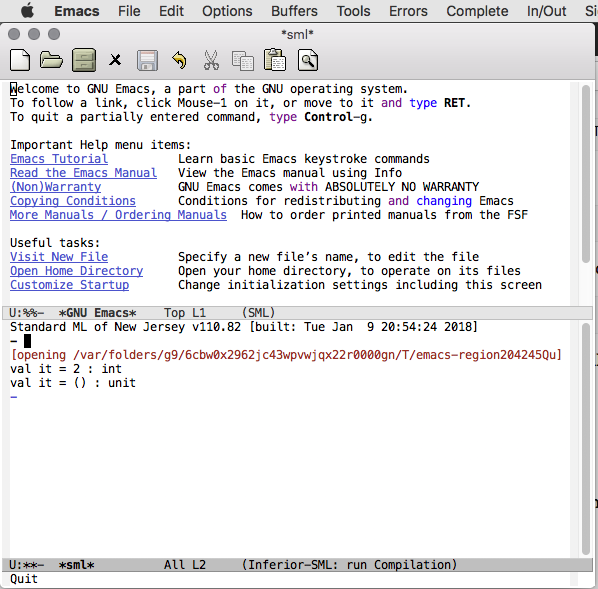
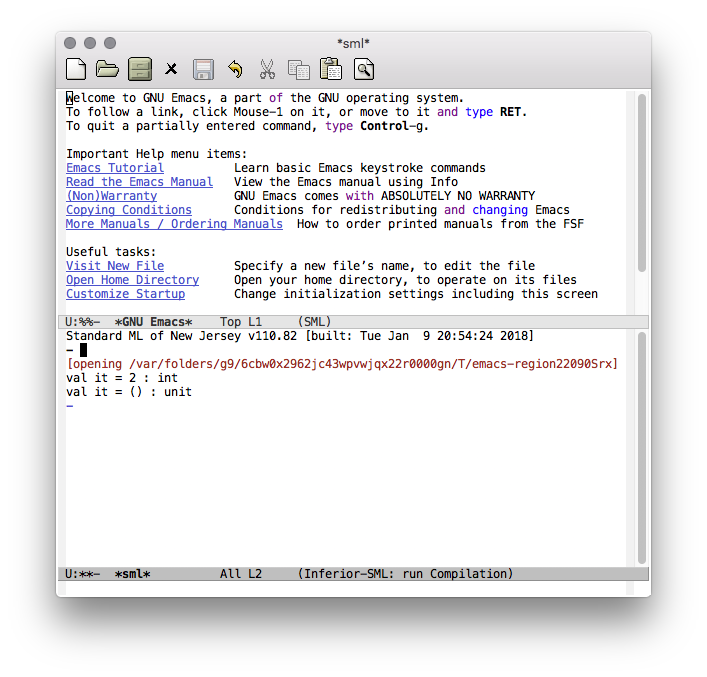
[FIX] image centering

diff --git a/_site/2018/03/03/installing-standard-ml-on-os-x/index.html b/_site/2018/03/03/installing-standard-ml-on-os-x/index.html
@@ -157,7 +157,7 @@ Reload your user profile:</p>
 But classic editing tool for SML is GNU Emacs, hereinafter referred to as
 Emacs - so we’ll setup SML editing environment in this universal kitchen sink.</p>
 
-<p><img src="http://ergoemacs.org/emacs/i/emacs_kitchen_sink_icon_1987.png" alt="emacs-kitchen-sink" class="img-responsive" /></p>
+<p><img src="http://ergoemacs.org/emacs/i/emacs_kitchen_sink_icon_1987.png" alt="emacs-kitchen-sink" class="img-center" /></p>
 
 <p>Let’s get it:</p>
 <div class="highlighter-rouge"><div class="highlight"><pre class="highlight"><code>$ brew install emacs --with-cocoa
@@ -239,7 +239,7 @@ It should have <em>(Inferior-SML: run Compilation)</em> in it’s mode line.</p>
 <p>this command will send the code from your buffer to the compiler.
 The result should look like this:</p>
 
-<p><img src="/assets/img/2018-03-03_emacs_sml.png" alt="emacs-sml-mode" class="img-responsive" /></p>
+<p><img src="/assets/img/2018-03-03_emacs_sml.png" alt="emacs-sml-mode" class="img-center" /></p>
 
 <p>You can close the buffer with:</p>
 <div class="highlighter-rouge"><div class="highlight"><pre class="highlight"><code>C-x k bufname &lt;RET&gt;

diff --git a/_site/index.html b/_site/index.html
@@ -168,7 +168,7 @@ Reload your user profile:</p>
 But classic editing tool for SML is GNU Emacs, hereinafter referred to as
 Emacs - so we’ll setup SML editing environment in this universal kitchen sink.</p>
 
-<p><img src="http://ergoemacs.org/emacs/i/emacs_kitchen_sink_icon_1987.png" alt="emacs-kitchen-sink" class="img-responsive" /></p>
+<p><img src="http://ergoemacs.org/emacs/i/emacs_kitchen_sink_icon_1987.png" alt="emacs-kitchen-sink" class="img-center" /></p>
 
 <p>Let’s get it:</p>
 <div class="highlighter-rouge"><div class="highlight"><pre class="highlight"><code>$ brew install emacs --with-cocoa
@@ -250,7 +250,7 @@ It should have <em>(Inferior-SML: run Compilation)</em> in it’s mode line.</p>
 <p>this command will send the code from your buffer to the compiler.
 The result should look like this:</p>
 
-<p><img src="/assets/img/2018-03-03_emacs_sml.png" alt="emacs-sml-mode" class="img-responsive" /></p>
+<p><img src="/assets/img/2018-03-03_emacs_sml.png" alt="emacs-sml-mode" class="img-center" /></p>
 
 <p>You can close the buffer with:</p>
 <div class="highlighter-rouge"><div class="highlight"><pre class="highlight"><code>C-x k bufname &lt;RET&gt;

diff --git a/assets/main.scss b/assets/main.scss
@@ -27,7 +27,12 @@ $content-width:    800px;
 $on-palm:          600px;
 $on-laptop:        800px;
 
-
+// ke_an corrections 20189 03 03
+.img-center {
+  display: block;
+  margin-right: auto;
+  margin-left: auto;
+}
 
 // whiteglass also includes a mixin for defining media queries.
 // Use media queries like this:

diff --git a/_site/assets/main.css b/_site/assets/main.css
@@ -1,3 +1,8 @@
+.img-center {
+  display: block;
+  margin-right: auto;
+  margin-left: auto; }
+
 /**
  * Reset some basic elements
  */

diff --git a/_posts/2018-03-03-installing-standard-ml-on-os-x.md b/_posts/2018-03-03-installing-standard-ml-on-os-x.md
@@ -58,7 +58,7 @@ But classic editing tool for SML is GNU Emacs, hereinafter referred to as
 Emacs - so we'll setup SML editing environment in this universal kitchen sink.
 
 ![emacs-kitchen-sink](http://ergoemacs.org/emacs/i/emacs_kitchen_sink_icon_1987.png
-){:class="img-responsive"}
+){:class="img-center"}
 
 Let's get it:
 ```
@@ -150,7 +150,7 @@ C-c C-b
 this command will send the code from your buffer to the compiler.
 The result should look like this:
 
-![emacs-sml-mode](/assets/img/2018-03-03_emacs_sml.png){:class="img-responsive"}
+![emacs-sml-mode](/assets/img/2018-03-03_emacs_sml.png){:class="img-center"}
 
 You can close the buffer with:
 ```
